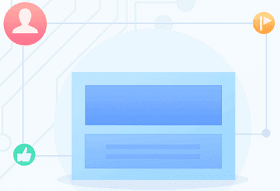
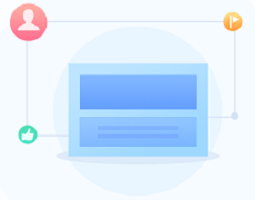
STYLE: update core value style

diff --git a/layouts/partials/widgets/slider.html b/layouts/partials/widgets/slider.html
@@ -85,8 +85,10 @@
           </div>
           <img class="hero-main-row-icon" sloth-img="{{ $item.content1_icon }}" alt="content1_icon">
         </div>
-        <div class="content-img"></div>
-
+        <div class="content-img">
+          <img sloth-img="{{ $item.content_center_icon }}" alt="content_center_icon">
+        </div>
+        
         <div class="hero-main-row-right">
           <img class="hero-main-row-icon" sloth-img="{{ $item.content2_icon }}" alt="content2_icon">
           <div class="hero-main-row-left-col">

diff --git a/layouts/partials/css/academic.css b/layouts/partials/css/academic.css
@@ -638,7 +638,9 @@ a[data-fancybox] img {
   display: flex;
   flex-direction: column;
   align-items: center;
+  height: 740px;
   background: rgb(247, 247, 247);
+  background-image: url(/img/hero/content-background.png);
 }
 
 .hero-main-row {
@@ -651,9 +653,8 @@ a[data-fancybox] img {
 
 .content-img {
   margin-top: 4rem;
-  width: 14rem;
+  width: 12rem;
   height: 9rem;
-  background-image: url(/img/hero/content-kubeedge.png);
 }
 
 .hero-main-row-icon {

diff --git a/content/en/home/home_slider.md b/content/en/home/home_slider.md
@@ -27,7 +27,10 @@ interval = 6000
   overlay_img = "headers/header-kubeedge.jpg"  # Image path relative to your `static/img/` folder.
   overlay_filter = 0  # Darken the image. Value in range 0-1.
   
+  content_center_icon = "/img/hero/content-kubeedge.png" 
+
   content1_icon = "/img/hero/content-icon1.png"  # Icon path relative to your `static/` folder.
+
   content1_title = "Seamless Cloud-Edge Coordination"
   content1_line1 = "Bidirectional communication,"
   content1_line2 = "able to talk to edge nodes located in private subnet."

diff --git a/content/zh/home/home_slider.md b/content/zh/home/home_slider.md
@@ -28,6 +28,8 @@ height = "1360px"
   overlay_img = "headers/header-kubeedge.jpg"  # Image path relative to your `static/img/` folder.
   overlay_filter = 0  # Darken the image. Value in range 0-1.
   
+  content_center_icon = "/img/hero/content-kubeedge.png" 
+
   content1_icon = "/img/hero/content-icon1.png"  # Icon path relative to your `static/` folder.
   content1_title = "无缝云边缘协调"
   content1_line1 = "双向的沟通,"
